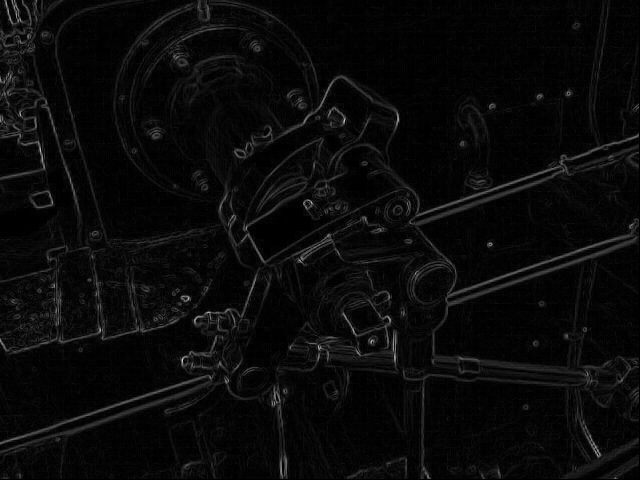
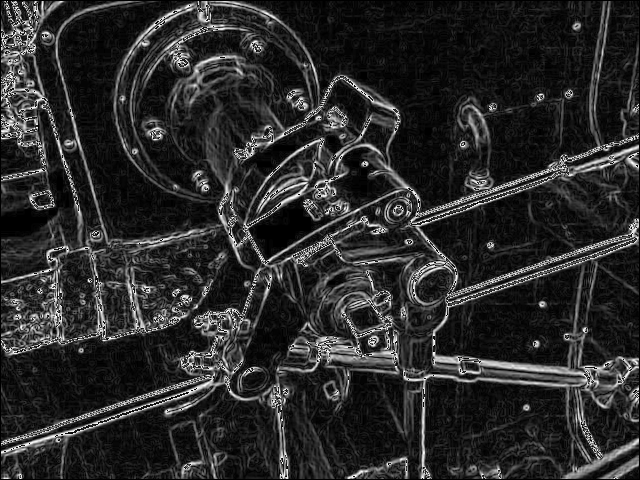
Corriger les erreurs d'algo

diff --git a/filtres_contour/SobelFilter.java b/filtres_contour/SobelFilter.java
@@ -10,13 +10,13 @@ class SobelFilter extends Filtre {
 		for(int i=1;i<w-1;i++){
 			for(int j=1;j<h-1;j++){
 				pixelMatrix[0][0]=new Color(img[i-1][j-1]).getRed();
-				pixelMatrix[0][1]=new Color(img[i-1][j]).getRed();
-				pixelMatrix[0][2]=new Color(img[i-1][j+1]).getRed();
-				pixelMatrix[1][0]=new Color(img[i][j-1]).getRed();
-				
-				pixelMatrix[1][2]=new Color(img[i][j+1]).getRed();
-				pixelMatrix[2][0]=new Color(img[i+1][j-1]).getRed();
-				pixelMatrix[2][1]=new Color(img[i+1][j]).getRed();
+				pixelMatrix[0][1]=new Color(img[i][j-1]).getRed();
+				pixelMatrix[0][2]=new Color(img[i+1][j-1]).getRed();
+				pixelMatrix[1][0]=new Color(img[i-1][j]).getRed();
+				//pixel at position i,j not needed since always * 0
+				pixelMatrix[1][2]=new Color(img[i+1][j]).getRed();
+				pixelMatrix[2][0]=new Color(img[i-1][j+1]).getRed();
+				pixelMatrix[2][1]=new Color(img[i][j+1]).getRed();
 				pixelMatrix[2][2]=new Color(img[i+1][j+1]).getRed();
 
 				y = (pixelMatrix[0][0]*-1)+
@@ -32,7 +32,12 @@ class SobelFilter extends Filtre {
 					(pixelMatrix[2][0]*-1)+
 					(pixelMatrix[2][2]);
 					
-				R = (int) Math.sqrt(Math.pow(y,2)+Math.pow(x,2));
+				R = (int) Math.sqrt(x*x+y*y);
+				
+				if (R< 0)
+					R=0;
+				else if (R>255)
+					R=255;
 				
 				out[i][j] = (R<<16 | R<<8 | R);
 			}

diff --git a/filtres_contour/PrewittFilter.java b/filtres_contour/PrewittFilter.java
@@ -10,13 +10,13 @@ class PrewittFilter extends Filtre {
 		for(int i=1;i<w-1;i++){
 			for(int j=1;j<h-1;j++){
 				pixelMatrix[0][0]=new Color(img[i-1][j-1]).getRed();
-				pixelMatrix[0][1]=new Color(img[i-1][j]).getRed();
-				pixelMatrix[0][2]=new Color(img[i-1][j+1]).getRed();
-				pixelMatrix[1][0]=new Color(img[i][j-1]).getRed();
-				
-				pixelMatrix[1][2]=new Color(img[i][j+1]).getRed();
-				pixelMatrix[2][0]=new Color(img[i+1][j-1]).getRed();
-				pixelMatrix[2][1]=new Color(img[i+1][j]).getRed();
+				pixelMatrix[0][1]=new Color(img[i][j-1]).getRed();
+				pixelMatrix[0][2]=new Color(img[i+1][j-1]).getRed();
+				pixelMatrix[1][0]=new Color(img[i-1][j]).getRed();
+				//pixel at position i,j not needed since always * 0
+				pixelMatrix[1][2]=new Color(img[i+1][j]).getRed();
+				pixelMatrix[2][0]=new Color(img[i-1][j+1]).getRed();
+				pixelMatrix[2][1]=new Color(img[i][j+1]).getRed();
 				pixelMatrix[2][2]=new Color(img[i+1][j+1]).getRed();
 
 				y = (pixelMatrix[0][0]*-1)+
@@ -33,6 +33,11 @@ class PrewittFilter extends Filtre {
 					(pixelMatrix[2][2]);
 					
 				R = (int) Math.sqrt(Math.pow(y,2)+Math.pow(x,2));
+				
+				if (R< 0)
+					R=0;
+				else if (R>255)
+					R=255;
 				
 				out[i][j] = (R<<16 | R<<8 | R);
 			}

diff --git a/filtres_contour/RobertsCrossFilter.java b/filtres_contour/RobertsCrossFilter.java
@@ -9,16 +9,15 @@ class RobertsCrossFilter extends Filtre {
 		int[][] pixelMatrix=new int[2][2];
 		for(int i=0;i<w-1;i++){
 			for(int j=0;j<h-1;j++){
-				pixelMatrix[0][1]=new Color(img[i][j+1]).getRed();
-				pixelMatrix[1][0]=new Color(img[i+1][j]).getRed();
-				
 				pixelMatrix[0][0]=new Color(img[i][j]).getRed();
+				pixelMatrix[0][1]=new Color(img[i+1][j]).getRed();
+				pixelMatrix[1][0]=new Color(img[i][j+1]).getRed();
 				pixelMatrix[1][1]=new Color(img[i+1][j+1]).getRed();
 
-				x = (pixelMatrix[0][1])+
-					(pixelMatrix[1][0]*-1);
-				y = (pixelMatrix[0][0]*1)+
+				x = (pixelMatrix[0][0])+
 					(pixelMatrix[1][1]*-1);
+				y = (pixelMatrix[0][1])+
+					(pixelMatrix[1][0]*-1);
 					
 				R = (int) Math.sqrt(Math.pow(y,2)+Math.pow(x,2));
 				

diff --git a/filtres_contour/View.java b/filtres_contour/View.java
@@ -18,7 +18,7 @@ public class View extends JFrame{
 	private JLabel label = new JLabel();
     //private Image image ;
   
-	ImageOriginale i = new ImageOriginale("images/Valve_original.png");
+	ImageOriginale i = new ImageOriginale("images/Valve.png");
 	SobelFilter f = new SobelFilter();
 	RobertsCrossFilter r = new RobertsCrossFilter();
 	PrewittFilter p = new PrewittFilter();
@@ -59,7 +59,7 @@ public class View extends JFrame{
     };*/
     
     label.setHorizontalAlignment(JLabel.CENTER);
-    label.setIcon(new ImageIcon("images/Valve_original.png"));
+    label.setIcon(new ImageIcon("images/Valve.png"));
     container.add(label, BorderLayout.CENTER);
     this.setContentPane(container);
     this.setVisible(true);
